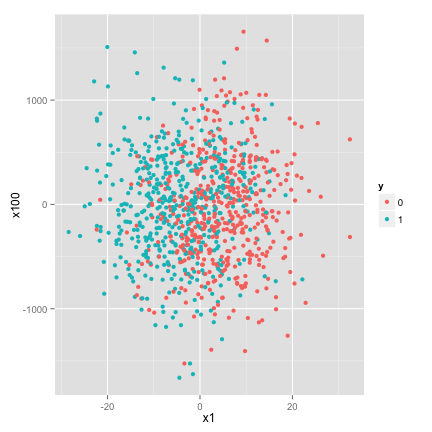
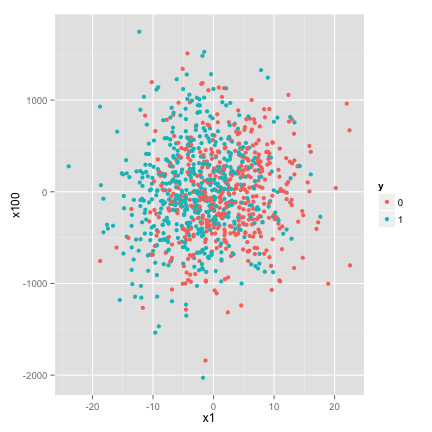
thug life

diff --git a/_posts/2014-10-29-thoughts.md b/_posts/2014-10-29-thoughts.md
@@ -110,8 +110,8 @@ table(pred = prediction, true = X$y[801:1000])
 {% highlight text %}
     true
 pred  0  1
-   0 88 12
-   1 14 86
+   0 73 13
+   1 23 91
 {% endhighlight %}
 
 
@@ -129,7 +129,7 @@ table(pred = prediction, true = P.X$y[801:1000])
     true
 pred   0   1
    0   0   0
-   1 102  98
+   1  96 104
 {% endhighlight %}
 
 
@@ -147,8 +147,8 @@ table(pred = prediction, true = X$y[801:1000])
 {% highlight text %}
     true
 pred  0  1
-   0 96 16
-   1  6 82
+   0 79  9
+   1 17 95
 {% endhighlight %}
 
 
@@ -161,12 +161,12 @@ head(importance(Xrf))
 
 {% highlight text %}
    MeanDecreaseGini
-x1           52.807
-x2           59.804
-x3            2.912
-x4            4.326
-x5            3.209
-x6            2.160
+x1           33.016
+x2           55.655
+x3            3.664
+x4            2.838
+x5            4.667
+x6            1.915
 {% endhighlight %}
 
 
@@ -184,8 +184,8 @@ table(pred = prediction, true = P.X$y[801:1000])
 {% highlight text %}
     true
 pred  0  1
-   0 68 57
-   1 34 41
+   0 46 49
+   1 50 55
 {% endhighlight %}
 
 
@@ -198,12 +198,12 @@ head(importance(P.Xrf))
 
 {% highlight text %}
     MeanDecreaseGini
-PC1            3.119
-PC2            3.077
-PC3            3.267
-PC4            2.995
-PC5            2.873
-PC6            3.338
+PC1            2.671
+PC2            2.849
+PC3            2.763
+PC4            2.901
+PC5            2.741
+PC6            2.893
 {% endhighlight %}
 
 
